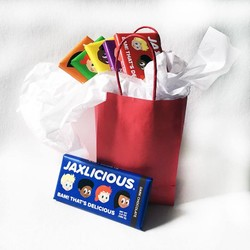
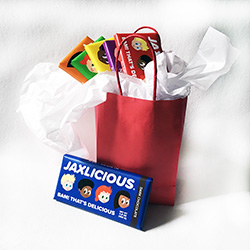
Responsive Images: Updated images for 'Jax Ideas' with newly created sizes using photoshop. Also, removed responsive breakpoint '--lg2' from the markdown file.

diff --git a/user/pages/section-products-ideas/modules.md b/user/pages/section-products-ideas/modules.md
@@ -27,7 +27,7 @@ module:
                 module__admin_title_child: 'Personal Gifts'
                 module_type: module__text_image
                 text_image__title: 'Personal Gifts'
-                text_image__textarea: "<figure>\r\n    <picture>\r\n\t<!--[if IE 9]><video style=\"display: none\"><![endif]-->\r\n\t<source\r\n\t\tdata-srcset=\"/user/pages/section-products-ideas/styles/chocolate-bars-jaxlicious-personal-gift-set-white-tissue-paper-190.jpg\"\r\n\t\tmedia=\"--sm\" />\r\n\t<source\r\n\t\t\tdata-srcset=\"/user/pages/section-products-ideas/styles/chocolate-bars-jaxlicious-personal-gift-set-white-tissue-paper-250.jpg\"\r\n\t\t\tmedia=\"--md\" />\r\n    <source\r\n\t\t\tdata-srcset=\"/user/pages/section-products-ideas/styles/chocolate-bars-jaxlicious-personal-gift-set-white-tissue-paper-310.jpg\"\r\n\t\t\tmedia=\"--lg\" />\r\n    <source\r\n            data-srcset=\"/user/pages/section-products-ideas/styles/chocolate-bars-jaxlicious-personal-gift-set-white-tissue-paper-425.jpg\"\r\n            media=\"--lg2\" />\r\n    <!--[if IE 9]></video><![endif]-->\r\n    <img\r\n         \tsrc=\"/user/pages/section-products-ideas/image-loading-600x600.gif\"\r\n            data-src=\"/user/pages/section-products-ideas/chocolate-bars-jaxlicious-personal-gift-set-white-tissue-paper.jpg\"\r\n            class=\"lazyload\"\r\n            alt=\"6 Jaxlicious chocolate bars displayed in red tissue paper and ribbon\" />\r\n    </picture>\r\n</figure>"
+                text_image__textarea: "<figure>\r\n    <picture>\r\n\t<!--[if IE 9]><video style=\"display: none\"><![endif]-->\r\n\t<source\r\n\t\tdata-srcset=\"/user/pages/section-products-ideas/styles/chocolate-bars-jaxlicious-personal-gift-set-white-tissue-paper-190.jpg\"\r\n\t\tmedia=\"--sm\" />\r\n\t<source\r\n\t\t\tdata-srcset=\"/user/pages/section-products-ideas/styles/chocolate-bars-jaxlicious-personal-gift-set-white-tissue-paper-250.jpg\"\r\n\t\t\tmedia=\"--md\" />\r\n    <source\r\n\t\t\tdata-srcset=\"/user/pages/section-products-ideas/styles/chocolate-bars-jaxlicious-personal-gift-set-white-tissue-paper-310.jpg\"\r\n\t\t\tmedia=\"--lg\" />\r\n    <!--[if IE 9]></video><![endif]-->\r\n    <img\r\n         \tsrc=\"/user/pages/section-products-ideas/image-loading-600x600.gif\"\r\n            data-src=\"/user/pages/section-products-ideas/chocolate-bars-jaxlicious-personal-gift-set-white-tissue-paper.jpg\"\r\n            class=\"lazyload\"\r\n            alt=\"6 Jaxlicious chocolate bars displayed in red tissue paper and ribbon\" />\r\n    </picture>\r\n</figure>"
                 module_styles__select_child:
                     - image__center
                     - text-align__center
@@ -35,7 +35,7 @@ module:
                 module__admin_title_child: 'Break Rooms'
                 module_type: module__text_image
                 text_image__title: 'Break Rooms'
-                text_image__textarea: "<figure>\r\n    <picture>\r\n\t<!--[if IE 9]><video style=\"display: none\"><![endif]-->\r\n\t<source\r\n\t\tdata-srcset=\"/user/pages/section-products-ideas/styles/chocolate-bars-jaxlicious-paraphernalia-breakroom-190.jpg\"\r\n\t\tmedia=\"--sm\" />\r\n\t<source\r\n\t\t\tdata-srcset=\"/user/pages/section-products-ideas/styles/chocolate-bars-jaxlicious-paraphernalia-breakroom-250.jpg\"\r\n\t\t\tmedia=\"--md\" />\r\n    <source\r\n\t\t\tdata-srcset=\"/user/pages/section-products-ideas/styles/chocolate-bars-jaxlicious-paraphernalia-breakroom-310.jpg\"\r\n\t\t\tmedia=\"--lg\" />\r\n    <source\r\n            data-srcset=\"/user/pages/section-products-ideas/styles/chocolate-bars-jaxlicious-paraphernalia-breakroom-425.jpg\"\r\n            media=\"--lg2\" />\r\n    <!--[if IE 9]></video><![endif]-->\r\n    <img\r\n         \tsrc=\"/user/pages/section-products-ideas/image-loading-600x600.gif\"\r\n            data-src=\"/user/pages/section-products-ideas/chocolate-bars-jaxlicious-paraphernalia-breakroom.jpg\"\r\n            class=\"lazyload\"\r\n            alt=\"Jaxlicious cookie jar with chocolate bars and Jaxlicious coffee mugs in a break room\" />\r\n    </picture>\r\n</figure>"
+                text_image__textarea: "<figure>\r\n    <picture>\r\n\t<!--[if IE 9]><video style=\"display: none\"><![endif]-->\r\n\t<source\r\n\t\tdata-srcset=\"/user/pages/section-products-ideas/styles/chocolate-bars-jaxlicious-paraphernalia-breakroom-190.jpg\"\r\n\t\tmedia=\"--sm\" />\r\n\t<source\r\n\t\t\tdata-srcset=\"/user/pages/section-products-ideas/styles/chocolate-bars-jaxlicious-paraphernalia-breakroom-250.jpg\"\r\n\t\t\tmedia=\"--md\" />\r\n    <source\r\n\t\t\tdata-srcset=\"/user/pages/section-products-ideas/styles/chocolate-bars-jaxlicious-paraphernalia-breakroom-310.jpg\"\r\n\t\t\tmedia=\"--lg\" />\r\n    <!--[if IE 9]></video><![endif]-->\r\n    <img\r\n         \tsrc=\"/user/pages/section-products-ideas/image-loading-600x600.gif\"\r\n            data-src=\"/user/pages/section-products-ideas/chocolate-bars-jaxlicious-paraphernalia-breakroom.jpg\"\r\n            class=\"lazyload\"\r\n            alt=\"Jaxlicious cookie jar with chocolate bars and Jaxlicious coffee mugs in a break room\" />\r\n    </picture>\r\n</figure>"
                 module_styles__select_child:
                     - image__center
                     - text-align__center
@@ -43,7 +43,7 @@ module:
                 module__admin_title_child: 'Employee Gifts'
                 module_type: module__text_image
                 text_image__title: 'Employee Gifts'
-                text_image__textarea: "<figure>\r\n    <picture>\r\n\t<!--[if IE 9]><video style=\"display: none\"><![endif]-->\r\n\t<source\r\n\t\tdata-srcset=\"/user/pages/section-products-ideas/styles/chocolate-bars-jaxlicious-gift-bag-red-190.jpg\"\r\n\t\tmedia=\"--sm\" />\r\n\t<source\r\n\t\t\tdata-srcset=\"/user/pages/section-products-ideas/styles/chocolate-bars-jaxlicious-gift-bag-red-250.jpg\"\r\n\t\t\tmedia=\"--md\" />\r\n    <source\r\n\t\t\tdata-srcset=\"/user/pages/section-products-ideas/styles/chocolate-bars-jaxlicious-gift-bag-red-310.jpg\"\r\n\t\t\tmedia=\"--lg\" />\r\n    <source\r\n            data-srcset=\"/user/pages/section-products-ideas/styles/chocolate-bars-jaxlicious-gift-bag-red-425.jpg\"\r\n            media=\"--lg2\" />\r\n    <!--[if IE 9]></video><![endif]-->\r\n    <img\r\n         \tsrc=\"/user/pages/section-products-ideas/image-loading-600x600.gif\"\r\n            data-src=\"/user/pages/section-products-ideas/chocolate-bars-jaxlicious-gift-bag-red.jpg\"\r\n            class=\"lazyload\"\r\n            alt=\"Red gift bag with chocolate bars displayed in and around the gift bag\" />\r\n    </picture>\r\n</figure>"
+                text_image__textarea: "<figure>\r\n    <picture>\r\n\t<!--[if IE 9]><video style=\"display: none\"><![endif]-->\r\n\t<source\r\n\t\tdata-srcset=\"/user/pages/section-products-ideas/styles/chocolate-bars-jaxlicious-gift-bag-red-190.jpg\"\r\n\t\tmedia=\"--sm\" />\r\n\t<source\r\n\t\t\tdata-srcset=\"/user/pages/section-products-ideas/styles/chocolate-bars-jaxlicious-gift-bag-red-250.jpg\"\r\n\t\t\tmedia=\"--md\" />\r\n    <source\r\n\t\t\tdata-srcset=\"/user/pages/section-products-ideas/styles/chocolate-bars-jaxlicious-gift-bag-red-310.jpg\"\r\n\t\t\tmedia=\"--lg\" />\r\n    <!--[if IE 9]></video><![endif]-->\r\n    <img\r\n         \tsrc=\"/user/pages/section-products-ideas/image-loading-600x600.gif\"\r\n            data-src=\"/user/pages/section-products-ideas/chocolate-bars-jaxlicious-gift-bag-red.jpg\"\r\n            class=\"lazyload\"\r\n            alt=\"Red gift bag with chocolate bars displayed in and around the gift bag\" />\r\n    </picture>\r\n</figure>"
                 module_styles__select_child:
                     - image__center
                     - text-align__center
@@ -51,7 +51,7 @@ module:
                 module__admin_title_child: Retail
                 module_type: module__text_image
                 text_image__title: Retail
-                text_image__textarea: "<figure>\r\n    <picture>\r\n\t<!--[if IE 9]><video style=\"display: none\"><![endif]-->\r\n\t<source\r\n\t\tdata-srcset=\"/user/pages/section-products-ideas/styles/chocolate-bars-jaxlicious-retail-display-190.jpg\"\r\n\t\tmedia=\"--sm\" />\r\n\t<source\r\n\t\t\tdata-srcset=\"/user/pages/section-products-ideas/styles/chocolate-bars-jaxlicious-retail-display-250.jpg\"\r\n\t\t\tmedia=\"--md\" />\r\n    <source\r\n\t\t\tdata-srcset=\"/user/pages/section-products-ideas/styles/chocolate-bars-jaxlicious-retail-display-310.jpg\"\r\n\t\t\tmedia=\"--lg\" />\r\n    <source\r\n            data-srcset=\"/user/pages/section-products-ideas/styles/chocolate-bars-jaxlicious-retail-display-425.jpg\"\r\n            media=\"--lg2\" />\r\n    <!--[if IE 9]></video><![endif]-->\r\n    <img\r\n         \tsrc=\"/user/pages/section-products-ideas/image-loading-600x600.gif\"\r\n            data-src=\"/user/pages/section-products-ideas/chocolate-bars-jaxlicious-retail-display.jpg\"\r\n            class=\"lazyload\"\r\n            alt=\"Jaxlicious chocolate bars retail display\" />\r\n    </picture>\r\n</figure>"
+                text_image__textarea: "<figure>\r\n    <picture>\r\n\t<!--[if IE 9]><video style=\"display: none\"><![endif]-->\r\n\t<source\r\n\t\tdata-srcset=\"/user/pages/section-products-ideas/styles/chocolate-bars-jaxlicious-retail-display-190.jpg\"\r\n\t\tmedia=\"--sm\" />\r\n\t<source\r\n\t\t\tdata-srcset=\"/user/pages/section-products-ideas/styles/chocolate-bars-jaxlicious-retail-display-250.jpg\"\r\n\t\t\tmedia=\"--md\" />\r\n    <source\r\n\t\t\tdata-srcset=\"/user/pages/section-products-ideas/styles/chocolate-bars-jaxlicious-retail-display-310.jpg\"\r\n\t\t\tmedia=\"--lg\" />\r\n    <!--[if IE 9]></video><![endif]-->\r\n    <img\r\n         \tsrc=\"/user/pages/section-products-ideas/image-loading-600x600.gif\"\r\n            data-src=\"/user/pages/section-products-ideas/chocolate-bars-jaxlicious-retail-display.jpg\"\r\n            class=\"lazyload\"\r\n            alt=\"Jaxlicious chocolate bars retail display\" />\r\n    </picture>\r\n</figure>"
                 module_styles__select_child:
                     - image__center
                     - text-align__center
